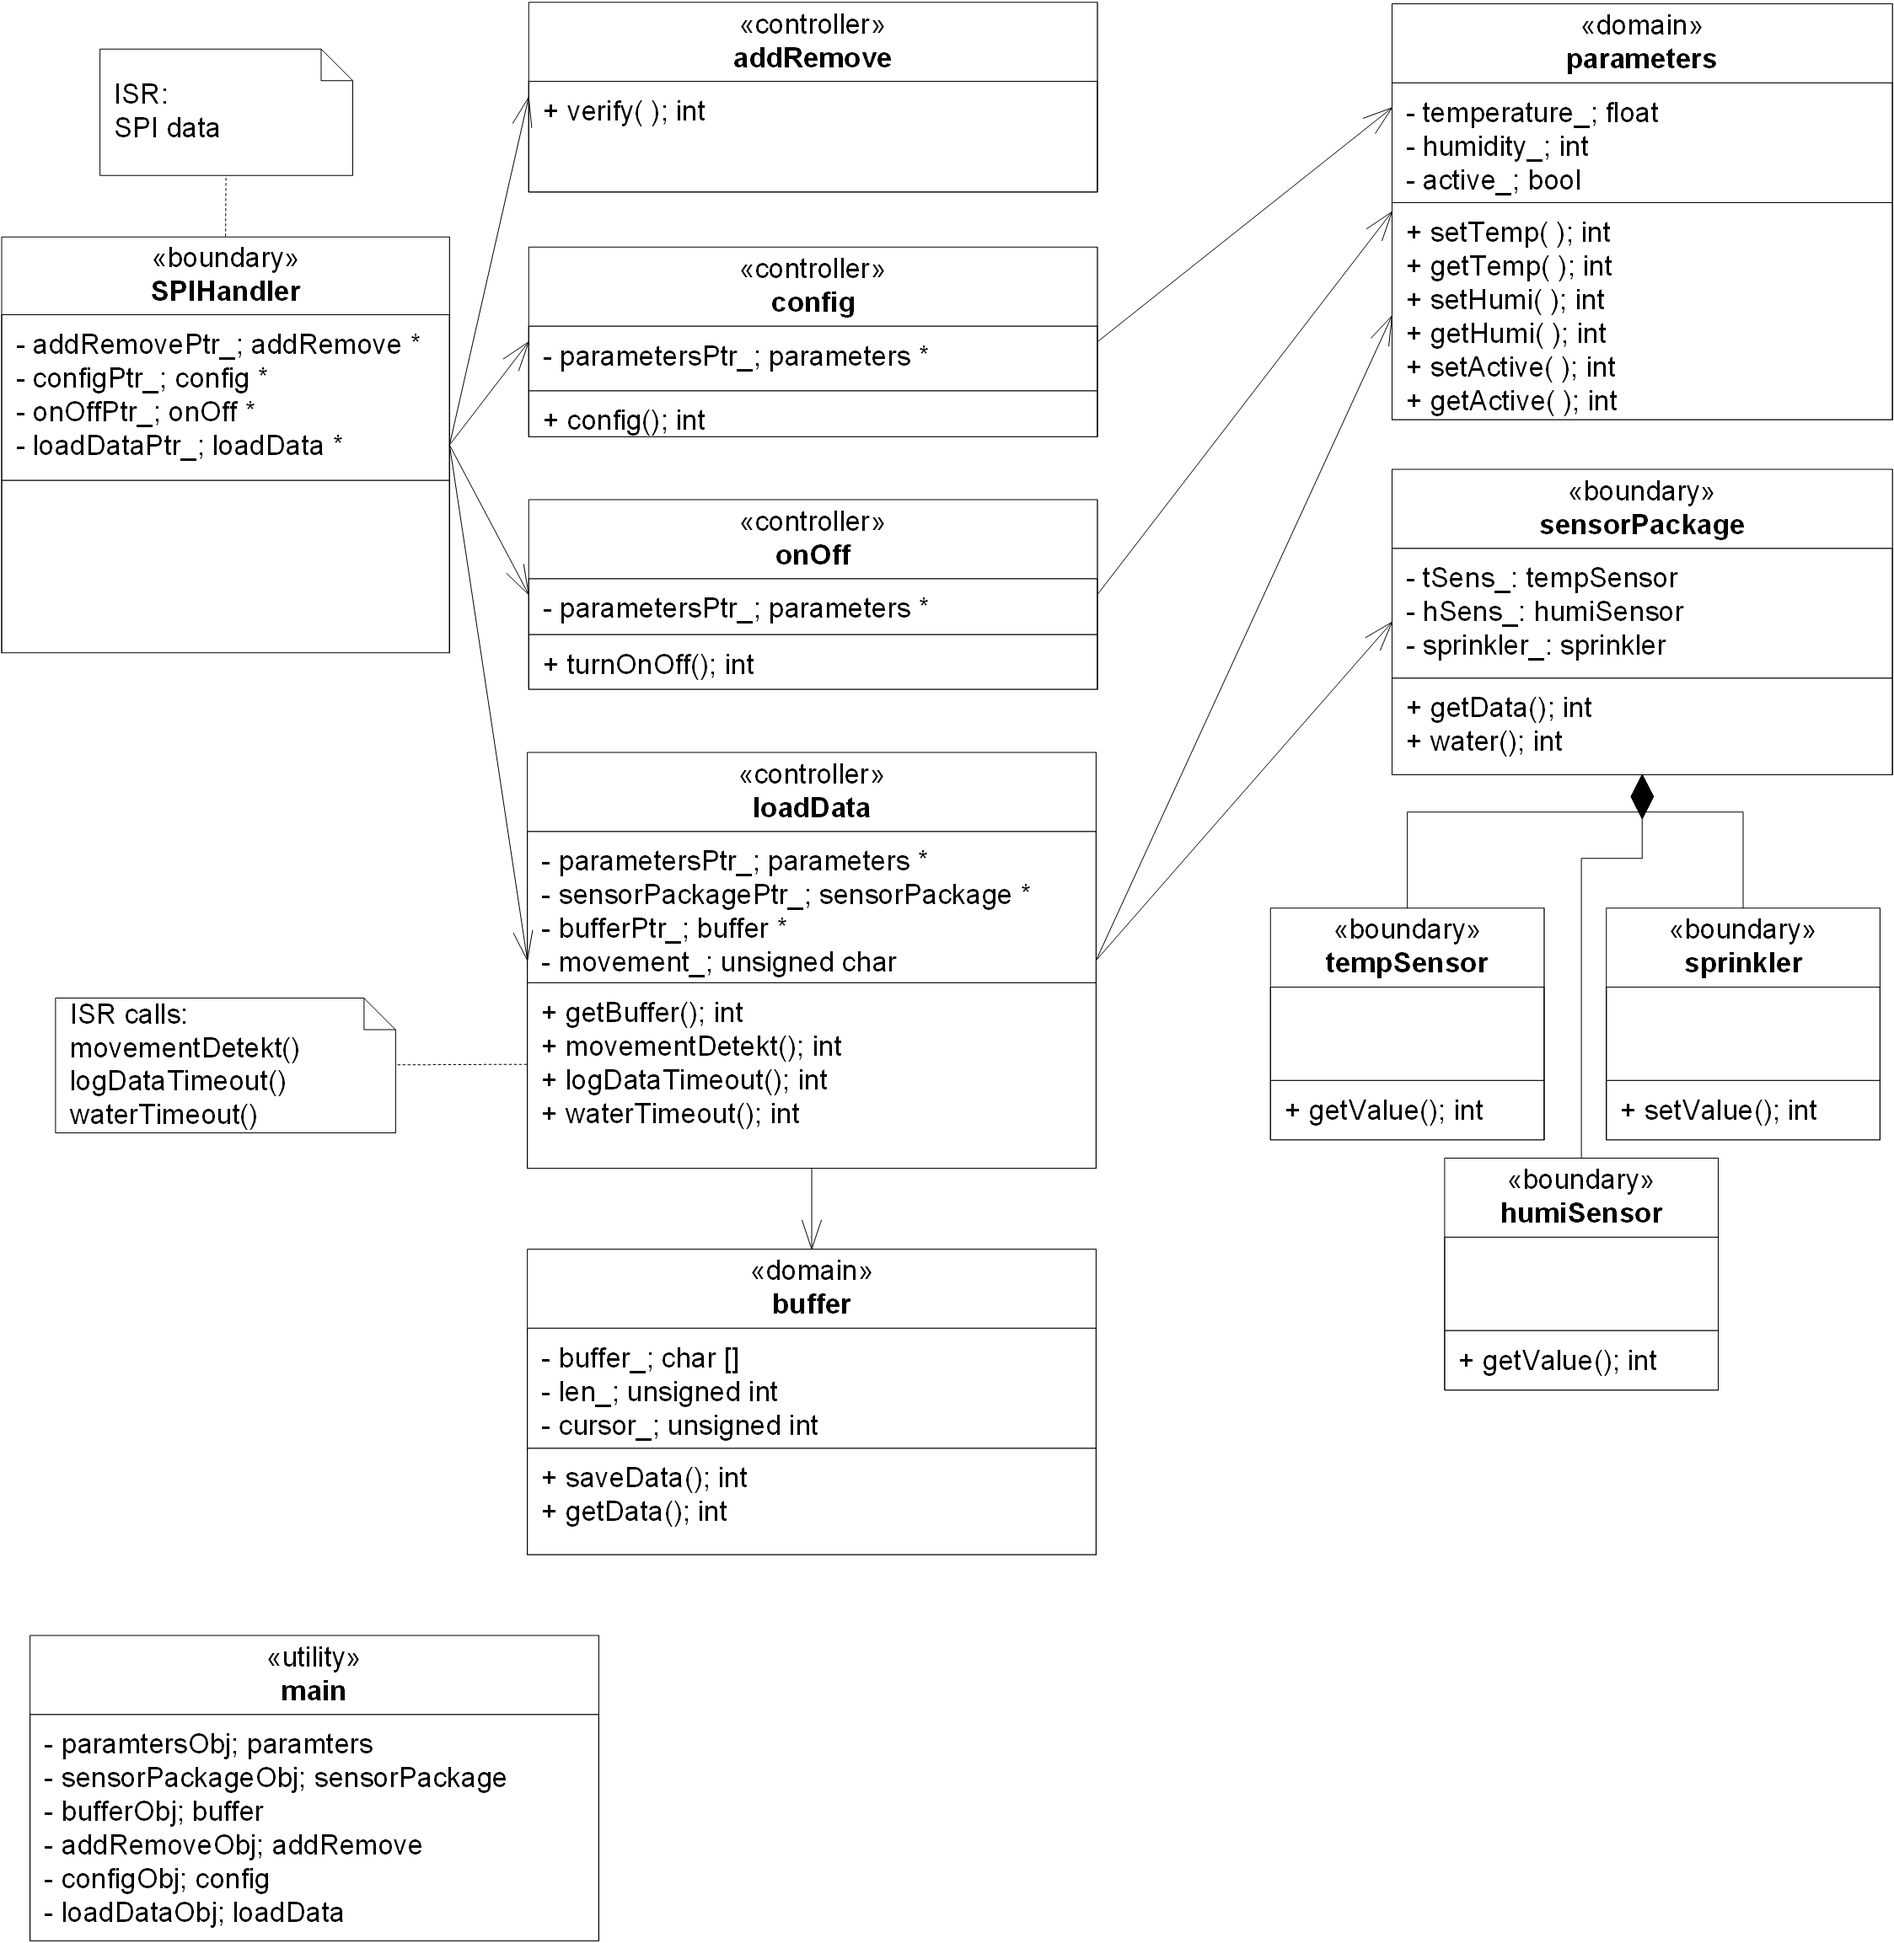
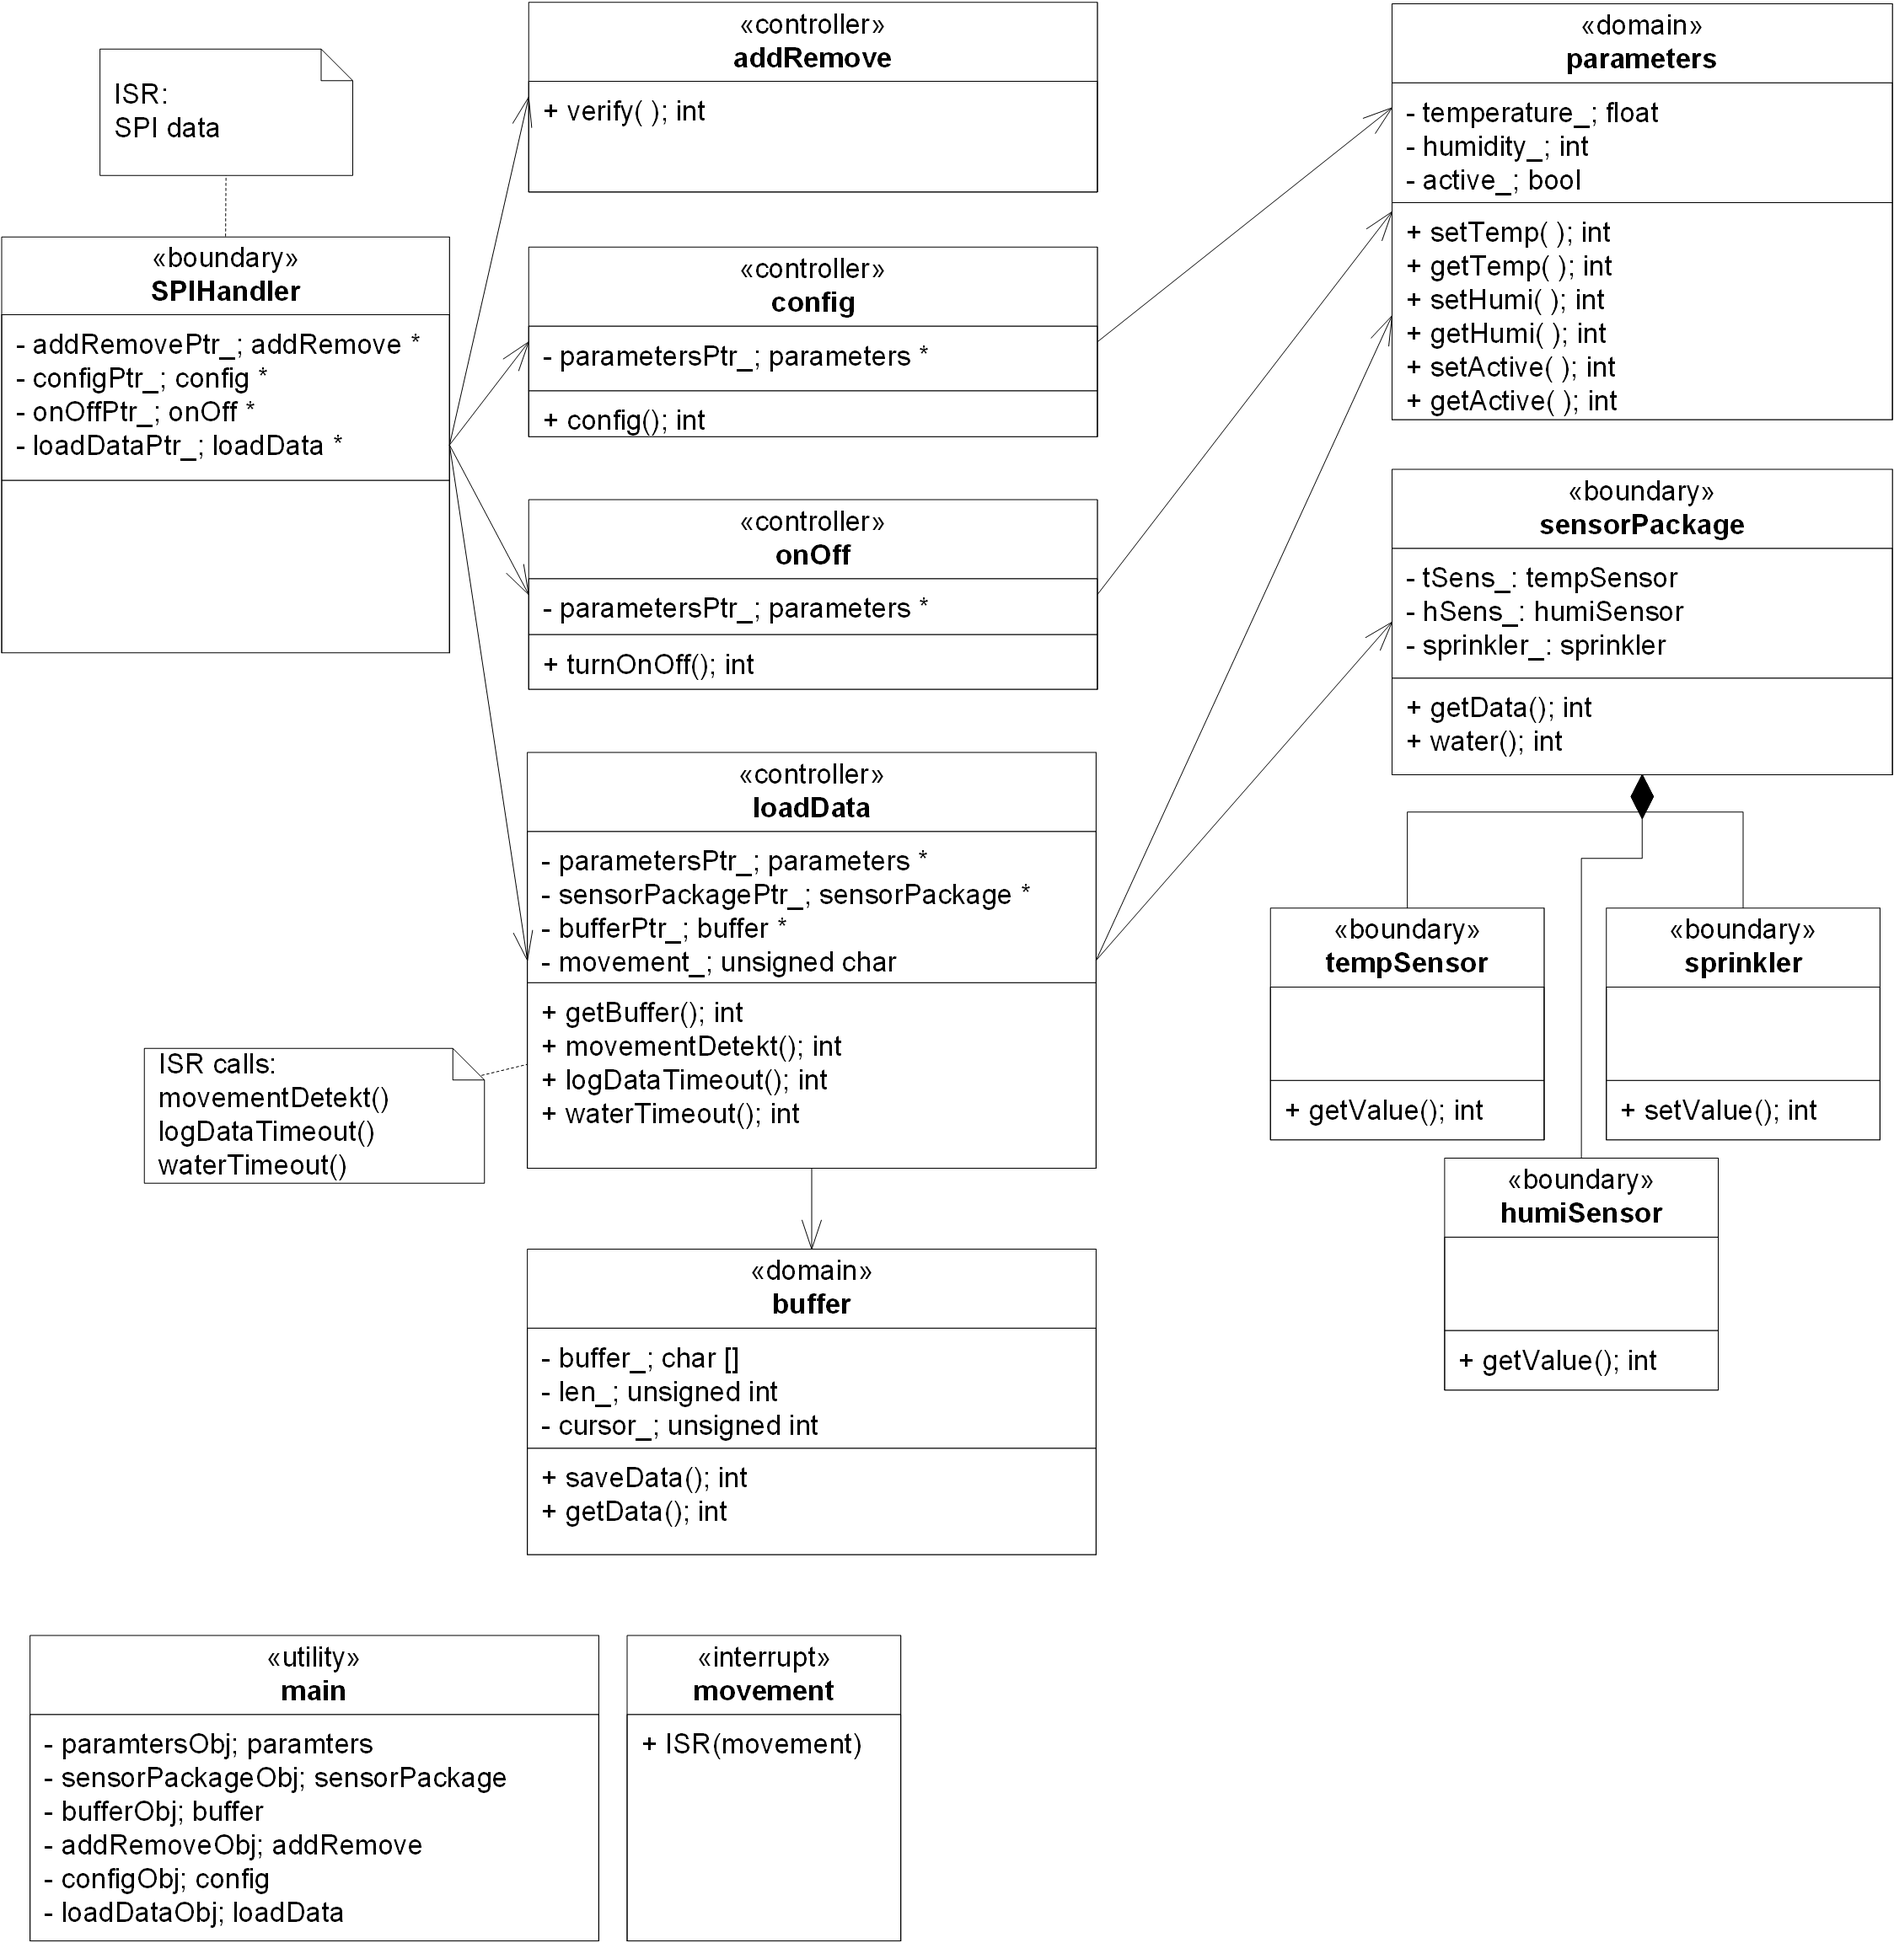
SW Klassebeskrivelser
Rettet et par klassebilleder som var blevet beskåret forkert.
Tilføjet beskrivelse til ISR til PSoC.

Changed region(s): [[0.0312, 0.4996, 0.2181, 0.6245], [0.3427, 0.843, 0.4361, 0.9055]]

diff --git a/Projektdokumentation/filer/design/sw_psoc_interrupt.tex b/Projektdokumentation/filer/design/sw_psoc_interrupt.tex
@@ -1,0 +1,26 @@
+%% SW design: PSoC Interrupt
+
+{\centering
+\textbf{Interrupt ISRer}\par
+}
+
+
+\verb+ISR( SPIHandler ) +\\
+\textbf{Parametre:} Ingen. \\
+\textbf{Returværdi:} Ingen. \\
+\textbf{Beskrivelse:} Modtaget SPI kommando afkodes, iht. kommunikationsprotokollen, hvor efter de relevante controllers kaldes.  \\
+
+\verb+ISR( movement ) +\\
+\textbf{Parametre:} Ingen. \\
+\textbf{Returværdi:} Ingen. \\
+\textbf{Beskrivelse:} Metoden \verb+movementDetect()+ kaldes i \verb+loadData+-objektet. \\
+
+\verb+ISR( waterTimeout ) +\\
+\textbf{Parametre:} Ingen. \\
+\textbf{Returværdi:} Ingen. \\
+\textbf{Beskrivelse:} Metoden \verb+waterTimeout()+ kaldes i \verb+loadData+-objektet. \\
+
+\verb+ISR( logDataTimeout ) +\\
+\textbf{Parametre:} Ingen. \\
+\textbf{Returværdi:} Ingen. \\
+\textbf{Beskrivelse:} Metoden \verb+getLogTimeout()+ kaldes i \verb+loadData+-objektet. \\

diff --git a/Projektdokumentation/filer/design/sw_psoc_controller.tex b/Projektdokumentation/filer/design/sw_psoc_controller.tex
@@ -67,7 +67,7 @@
 \verb+int movementDetekt( )+ \\
 \textbf{Parametre:} Ingen. \\
 \textbf{Returværdi:} 0 ved succes ellers negativ i overenstemmelse med fejl-listen. \\
-\textbf{Beskrivelse:} Skal deaktiverer vanding ved at sætte \verb+active_+-flaget i \verb+parameters+-objektet til 0. Skal også starte en timer som ved udløbet skal aktiverer vandingen igen efter 30 minutter. Skal sætte flaget \verb+movement_+ til 1, så der næste gang der gemmes data registreres bevægelse. \\
+\textbf{Beskrivelse:} Skal deaktiverer vanding ved at sætte \verb+active_+-flaget i \verb+parameters+-objektet til 0. Skal også starte en timer med udløb på 30 minutter. Skal sætte flaget \verb+movement_+ til 1, så der næste gang der gemmes data registreres bevægelse. \\
 
 \verb+int getLogTimeout( )+ \\
 \textbf{Parametre:} Ingen. \\

diff --git a/Projektdokumentation/filer/design/sw_psoc_boundary.tex b/Projektdokumentation/filer/design/sw_psoc_boundary.tex
@@ -90,14 +90,3 @@
 \textbf{Parametre:} 1 = tænd sprinkler, 0 = sluk sprinkler. \\
 \textbf{Returværdi:} 0 ved succes ellers negativ i overenstemmelse med fejl-listen. \\
 \textbf{Beskrivelse:} Skal aktiverer eller deaktiverer sprinkler ved hjælp af GPIO.\\
-
-\begin{figure}[htbp] \centering
-{\includegraphics[scale=1.3]{filer/design/Klassediagrammer/sw_psoc_SPIhandler}}
-\caption{Klasse SPIHandler}
-\label{fig:sw_psoc_class_SPIhandler}
-\end{figure} 
-
-{\centering
-\textbf{SPIHandler}\par
-}
-\textbf{Ansvar:} Afkode modtagne SPI beskeder og kalde nødvendige controllerer. \

diff --git a/Projektdokumentation/filer/SWdesign.tex b/Projektdokumentation/filer/SWdesign.tex
@@ -22,3 +22,5 @@ Her følger klassebeskrivelser for de udledte klasser fra applikationsmodellerne
 \input{filer/design/sw_psoc_domain}
 
 \input{filer/design/sw_psoc_boundary}
+
+\input{filer/design/sw_psoc_interrupt}
